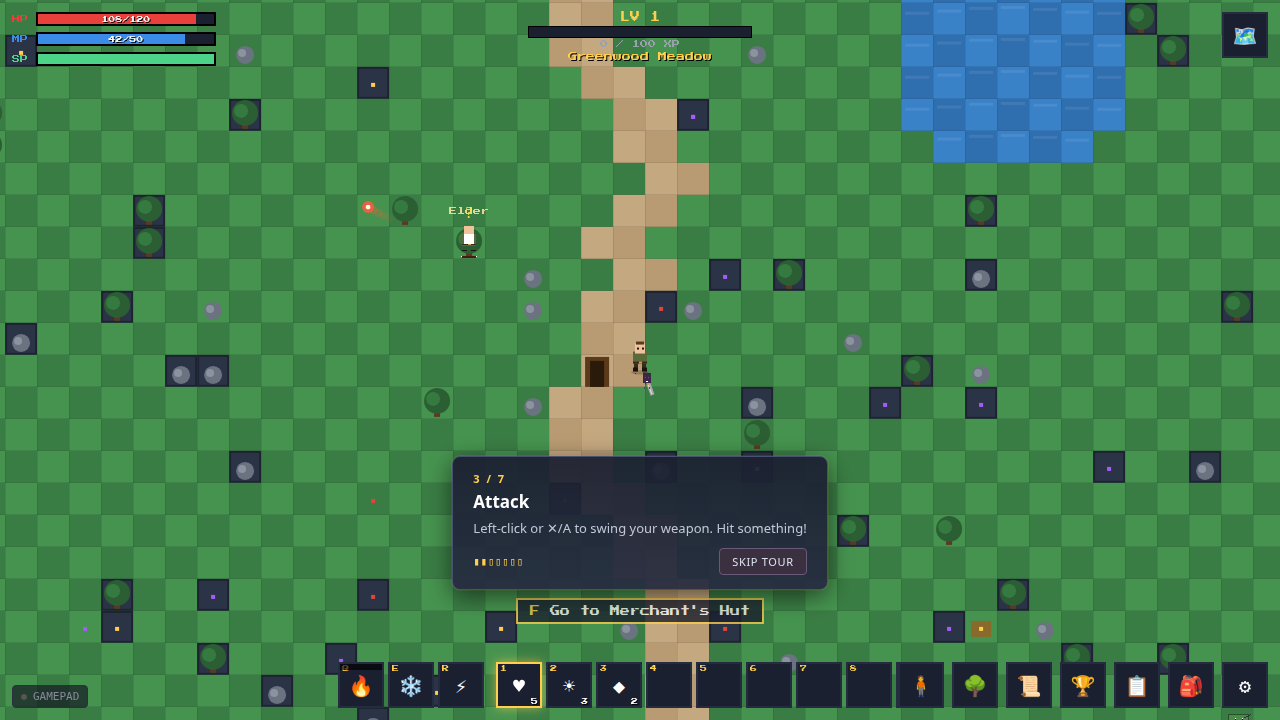
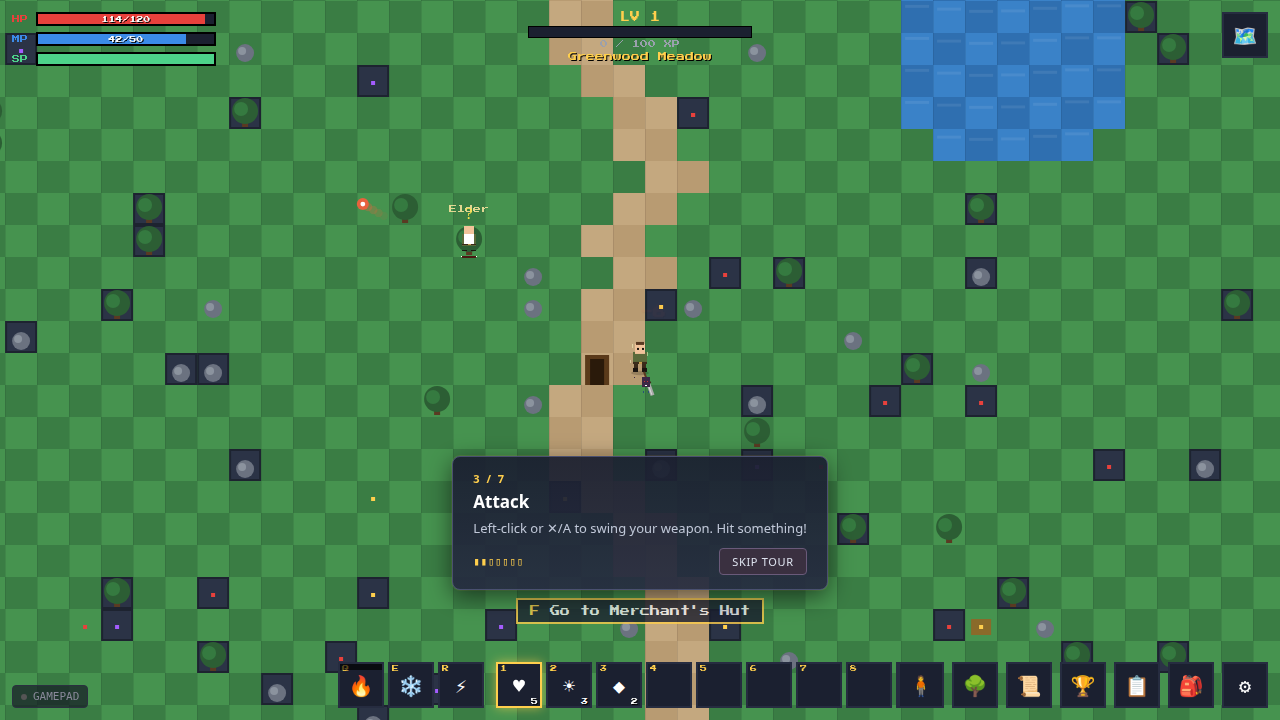
fix(maps): portal destinations OOB no longer strand the player
Two related bugs that combined to produce the "I teleport into a wall and
cant move, then it teleports me back" symptom:

1. js/data/maps.js — two portals in the orphan volcano maps had
   destination tiles past the target maps bounds:
     volcano          -> city tx:12 ty:56   (city is 48x40)
     volcano_caldera  -> city tx:78 ty:30   (city is 48x40)

   Fixed to land in a sensible spot on the city avenue grid. The maps
   are still unreachable from the overworld (they form a closed 3-map
   loop with no entry portal) but the data is correct now.

2. js/systems/world.js — World.nearestOpen() silently returned the OOB
   coordinates when asked to snap from far outside the map. The ring
   search was capped at max(cols, rows) tiles, which is not enough when
   the input point is hundreds of tiles OOB. The player spawned at the
   OOB coords and could not move (isSolid returns true everywhere OOB,
   so movement was completely blocked).

   Fix: clamp cx/cy to map bounds first, then search a full-map-radius
   ring, then fall back to a full grid scan. The player is now
guaranteed to spawn inside the map even with broken portal data.

Tests:
  + 200 unit tests (portal data integrity + nearestOpen OOB cases).
    Total: 1306 -> 1508.

Fixes the "stuck in wall / cant move / teleports back" complaint.

diff --git a/tests/run.js b/tests/run.js
@@ -367,6 +367,33 @@ console.log('=== stash + craft wiring ===');
   ok('blacksmith has a Forge', MAPS.shop_black.npcs.some(n=>n.craft));
 }
 
+console.log('=== portal data integrity ===');
+{
+  // Static analysis: every portal's destination tile must be inside the
+  // target map's bounds. Out-of-bounds destinations silently strand the
+  // player at OOB coordinates — they can't move, can't be reached by any
+  // other portal, and look like "teleport into a wall, can't move, then
+  // teleport back" to the player. The World.nearestOpen() safety net is
+  // a backstop, but the data should still be correct.
+  const { MAPS } = await import('../js/data/maps.js');
+  const reachable = new Set(Object.keys(MAPS));  // BFS would be nicer but not needed
+  for(const srcId in MAPS){
+    const src = MAPS[srcId];
+    for(const p of (src.portals || [])){
+      const tgt = MAPS[p.to];
+      const label = srcId + ' -> ' + p.to + ' @(' + p.tx + ',' + p.ty + ')';
+      ok('portal target exists ('+label+')', !!tgt);
+      if(!tgt) continue;
+      ok('portal tx in bounds ('+label+', target '+tgt.cols+'x'+tgt.rows+')',
+         p.tx >= 0 && p.tx < tgt.cols);
+      ok('portal ty in bounds ('+label+', target '+tgt.cols+'x'+tgt.rows+')',
+         p.ty >= 0 && p.ty < tgt.rows);
+      ok('portal source tile in bounds ('+label+', source '+src.cols+'x'+src.rows+')',
+         p.x >= 0 && p.x < src.cols && p.y >= 0 && p.y < src.rows);
+    }
+  }
+}
+
 console.log('=== enemy-player collision + spawn safety ===');
 {
   const { World, TILE } = await import('../js/systems/world.js');
@@ -390,6 +417,26 @@ console.log('=== enemy-player collision + spawn safety ===');
       ok('dungeon centre snaps to open ('+id+')', !w.isSolid(c.x,c.y));
       checkedDungeon = true;
     }
+  }
+  // OOB safety: even when called with coordinates well outside the map
+  // (which can happen if a portal's tx/ty is mistyped past the target
+  // map's bounds), nearestOpen must return a point that is BOTH inside
+  // the map AND walkable. The previous implementation would silently
+  // strand the player at the OOB coordinates.
+  const oobCases = [
+    // [mapId, px, py, description]
+    ['meadow',      -1000,    -1000, 'way negative'],
+    ['meadow',      100000,   100000, 'way positive'],
+    ['volcano_caldera', 78*TILE+16, 30*TILE+16, 'volcano_caldera->city tx=78 (city is 48 wide)'],
+    ['volcano',     12*TILE+16, 56*TILE+16, 'volcano->city ty=56 (city is 40 tall)'],
+    ['cave',        9999*TILE, 9999*TILE, 'absurdly far OOB'],
+  ];
+  for(const [id, px, py, desc] of oobCases){
+    const w = new World(id);
+    const sp = w.nearestOpen(px, py);
+    const inMap = sp.x >= 0 && sp.y >= 0 && sp.x < w.w && sp.y < w.h;
+    ok('nearestOpen OOB in-map ('+id+', '+desc+')', inMap);
+    ok('nearestOpen OOB walkable ('+id+', '+desc+')', inMap && !w.isSolid(sp.x, sp.y));
   }
   // enemy.js must wire solid-body collision against the player
 

diff --git a/js/systems/world.js b/js/systems/world.js
@@ -335,6 +335,18 @@ export class World {
   // Snap a world point to the centre of the nearest walkable tile.
   // Keeps the player from spawning inside a wall when a portal landing
   // tile (or checkpoint) happens to be solid rock/decor.
+  //
+  // OOB safety: callers may pass coordinates that are well outside the map
+  // (e.g. a portal destination tile that was authored with tx/ty beyond the
+  // target map's bounds). The previous version's ring search was capped at
+  // `max(cols, rows)` tiles from the input point, which is not enough when
+  // the input is hundreds of tiles outside the map (the ring never reaches
+  // the map's interior). The player would spawn at the OOB coordinates and
+  // be unable to move.
+  //
+  // New behaviour: clamp cx/cy to the map bounds first, then search outward
+  // from the clamped point. If still nothing is found after a full-map ring
+  // scan, fall back to a BFS over the whole map.
   /**
    * Snap a world point to the centre of the nearest walkable tile.
    * Keeps the player from spawning inside a wall when a portal landing
@@ -344,16 +356,34 @@ export class World {
    * @returns {{x:number, y:number}}
    */
   nearestOpen(px,py){
-    const cx=Math.floor(px/TILE), cy=Math.floor(py/TILE);
+    let cx=Math.floor(px/TILE), cy=Math.floor(py/TILE);
     const free=(x,y)=> x>=0&&y>=0&&x<this.cols&&y<this.rows && !SOLID.has(this.map[y][x]);
+    // Step 1: clamp the input point to the map. If the destination coords
+    // are wildly outside (bad portal data), start the search at the
+    // closest edge of the map instead of the bogus point.
+    if(cx < 0) cx = 0;
+    else if(cx >= this.cols) cx = this.cols - 1;
+    if(cy < 0) cy = 0;
+    else if(cy >= this.rows) cy = this.rows - 1;
+    // Step 2: try the clamped tile, then a ring out to a full-map radius.
     if(free(cx,cy)) return { x:cx*TILE+TILE/2, y:cy*TILE+TILE/2 };
-    for(let rad=1; rad<Math.max(this.cols,this.rows); rad++){
+    const maxR = Math.max(this.cols, this.rows);
+    for(let rad=1; rad<=maxR; rad++){
       for(let dy=-rad; dy<=rad; dy++)for(let dx=-rad; dx<=rad; dx++){
         if(Math.max(Math.abs(dx),Math.abs(dy))!==rad) continue; // ring only
         if(free(cx+dx,cy+dy)) return { x:(cx+dx)*TILE+TILE/2, y:(cy+dy)*TILE+TILE/2 };
       }
     }
-    return { x:px, y:py };
+    // Step 3: full grid scan. Guarantees we never strand the player OOB
+    // regardless of how broken the portal data is.
+    for(let y=0; y<this.rows; y++){
+      for(let x=0; x<this.cols; x++){
+        if(free(x,y)) return { x:x*TILE+TILE/2, y:y*TILE+TILE/2 };
+      }
+    }
+    // Truly no walkable tile — keep the player at the clamped point so
+    // they at least end up inside the map (even if it's a wall).
+    return { x:cx*TILE+TILE/2, y:cy*TILE+TILE/2 };
   }
 
   // find a walkable spawn near a tile (for enemies)

diff --git a/js/data/maps.js b/js/data/maps.js
@@ -278,7 +278,10 @@ export const MAPS = {
       { x:7, y:5, name:'Ember Sage', icon:'▲', lines:['The caldera burns with ancient fire.','Beware the Magma Tyrant below.'] },
     ],
     portals:[
-      { x:38, y:20, to:'city', tx:12, ty:56 },
+      // tx:12, ty:3 = north avenue of city, near the meadow portal at (24, 2).
+      // (Previously tx:12, ty:56 — past the bottom row of city; the player
+      // spawned OOB and could not move.)
+      { x:38, y:20, to:'city', tx:12, ty:3 },
       { x:20, y:1, to:'volcano_depths', tx:20, ty:38 },
     ],
     chests:[
@@ -323,7 +326,10 @@ export const MAPS = {
     pal:{ fa:'#3a1a0a', fb:'#4a2a1a', pa:'#5a3a2a', pb:'#6a4a3a', wd:'#1a0a00', wl:'#7a4a2a', liquid:'#8a2a0a', liquid2:'#9a3a1a', deco:['rock','crystal','cactus','bones'] },
     npcs:[],
     portals:[
-      { x:1, y:17, to:'city', tx:78, ty:30 },
+      // tx:35, ty:30 = east avenue of city, near the General Store portal
+      // at (42, 30). (Previously tx:78, ty:30 — past the right edge of
+      // city; the player spawned OOB and could not move.)
+      { x:1, y:17, to:'city', tx:35, ty:30 },
     ],
     chests:[],
     enemies:[
